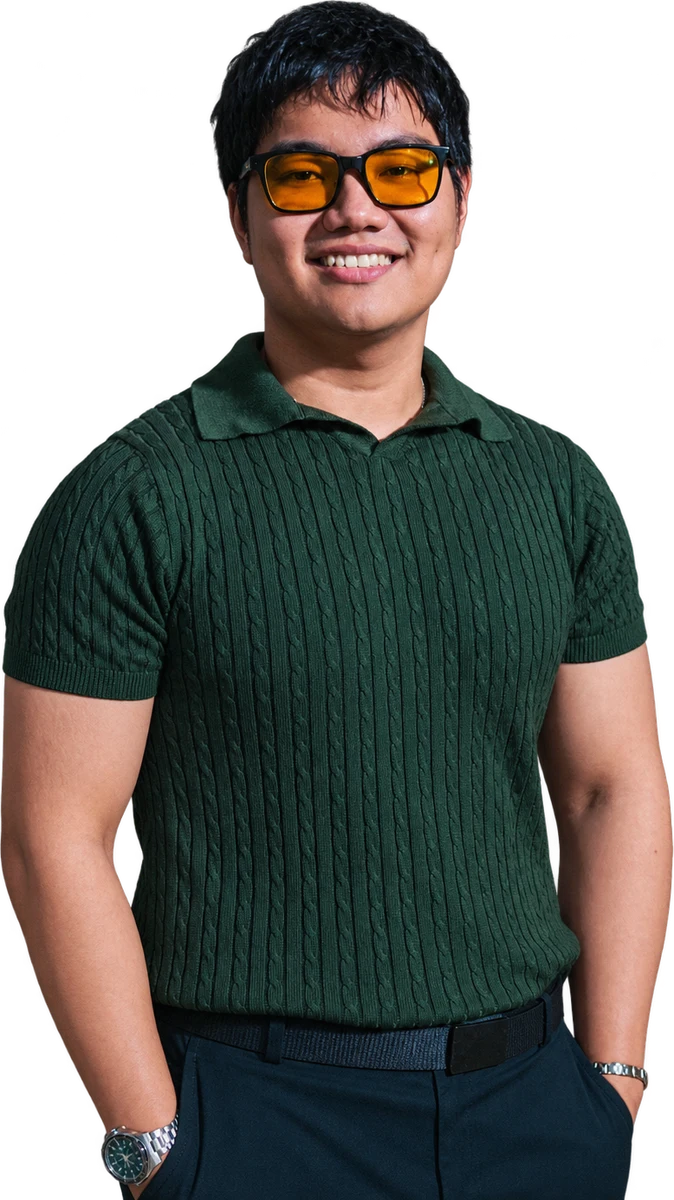
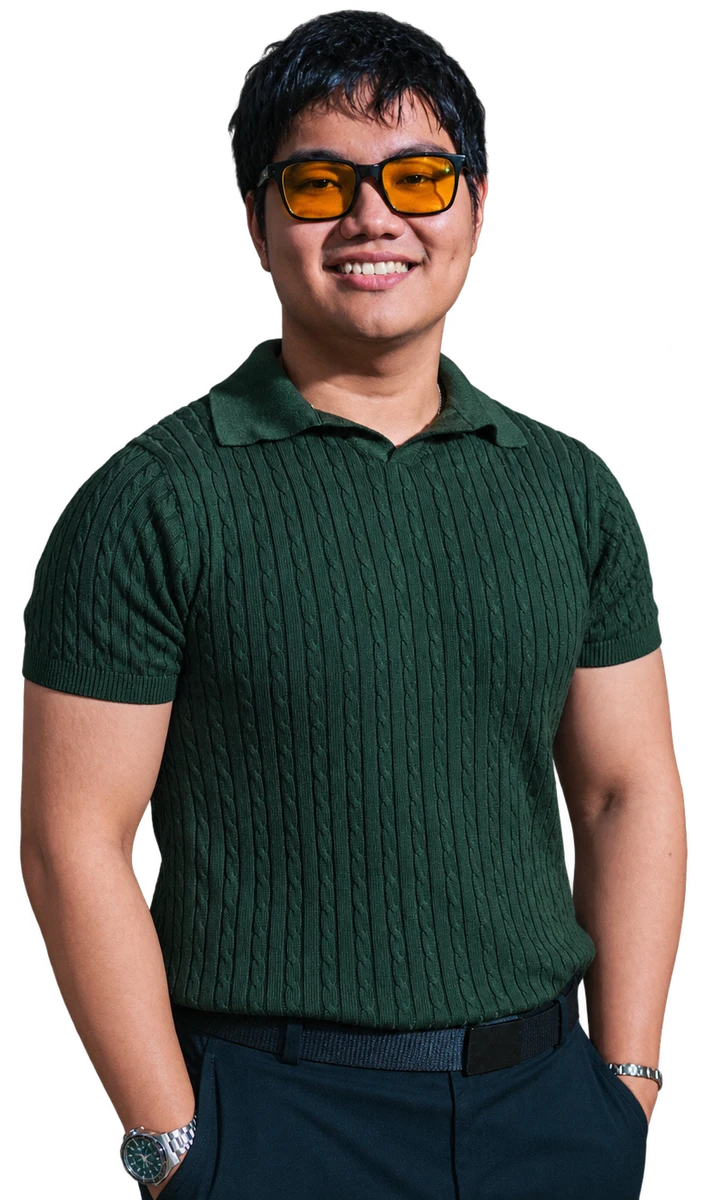
Match homepage hero to light and dark purple themes

Changed region(s): [[0.0, 0.0, 1.0, 1.0], [0.4362, 0.8633, 0.4674, 0.8942]]

diff --git a/src/app/globals.css b/src/app/globals.css
@@ -63,9 +63,30 @@ main section[id] {
 }
 
 .research-hero {
+  --hero-glow: #e7d9ff;
+  --hero-type-start: #8b5cce;
+  --hero-type-end: #d6bff7;
+  --hero-accent: #6025ae;
+  --hero-button: #692dc1;
+  --hero-button-hover: #54219f;
+  --hero-button-text: #fff;
+  --hero-topic-border: #bd9ee8;
+  --hero-topic-background: #f5eeff;
   overflow: hidden;
-  color: #fff5ed;
-  background: #100b0d;
+  color: hsl(var(--foreground));
+  background: hsl(var(--background));
+}
+
+.dark .research-hero {
+  --hero-glow: #301950;
+  --hero-type-start: #aa78f5;
+  --hero-type-end: #3a205c;
+  --hero-accent: #c7a4ff;
+  --hero-button: #be95ff;
+  --hero-button-hover: #d5baff;
+  --hero-button-text: #180f26;
+  --hero-topic-border: #72569b;
+  --hero-topic-background: #20162e;
 }
 
 .research-hero__inner {
@@ -79,7 +100,7 @@ main section[id] {
   min-height: clamp(37rem, 56vw, 49rem);
   margin-inline: auto;
   padding: 15rem clamp(2rem, 5vw, 5rem) clamp(3rem, 6vw, 5rem);
-  background: radial-gradient(ellipse at 61% 52%, #51201c 0, transparent 59%);
+  background: radial-gradient(ellipse at 61% 52%, var(--hero-glow), transparent 59%);
 }
 
 .research-hero__backdrop {
@@ -96,13 +117,12 @@ main section[id] {
 .research-hero__portrait {
   position: absolute;
   z-index: -1;
-  bottom: -2%;
+  bottom: 0;
   left: 62%;
   width: auto;
-  height: 83%;
+  height: 81%;
   max-width: none;
   transform: translateX(-50%);
-  filter: saturate(.78) drop-shadow(0 0 1.8rem #dc4b3535);
   mask-image: linear-gradient(#000 68%, transparent 99%);
 }
 
@@ -124,7 +144,7 @@ main section[id] {
 
 .research-hero h1 span,
 .research-hero__role {
-  color: #ff805b;
+  color: var(--hero-accent);
 }
 
 .research-hero__role {
@@ -136,7 +156,7 @@ main section[id] {
 .research-hero__summary {
   max-width: 28ch;
   margin-top: .65rem;
-  color: #e9d6ce;
+  color: hsl(var(--muted-foreground));
   line-height: 1.55;
 }
 
@@ -147,19 +167,19 @@ main section[id] {
   margin-top: 1.3rem;
   padding: .75rem 1rem;
   border-radius: .25rem;
-  color: #170d0d;
-  background: #ff805b;
+  color: var(--hero-button-text);
+  background: var(--hero-button);
   font-size: .875rem;
   font-weight: 700;
   transition: background-color .2s;
 }
 
 .research-hero__link:hover {
-  background: #ffa78c;
+  background: var(--hero-button-hover);
 }
 
 .research-hero__link:focus-visible {
-  outline: 2px solid #fff5ed;
+  outline: 2px solid var(--hero-accent);
   outline-offset: 4px;
 }
 
@@ -167,7 +187,7 @@ main section[id] {
   display: grid;
   justify-items: end;
   gap: .6rem;
-  color: #eed2c6;
+  color: var(--hero-accent);
   font: .72rem/1.2 ui-monospace, monospace;
   letter-spacing: .075em;
   text-transform: uppercase;
@@ -175,9 +195,9 @@ main section[id] {
 
 .research-hero__topics li {
   padding: .45rem .65rem;
-  border: 1px solid #92594c;
+  border: 1px solid var(--hero-topic-border);
   border-radius: .2rem;
-  background: #1b1012;
+  background: var(--hero-topic-background);
 }
 
 @media (max-width: 767px) {
@@ -186,7 +206,7 @@ main section[id] {
     grid-template-columns: minmax(0, 1fr);
     padding: clamp(18rem, 66vw, 30rem) 1.5rem 2rem;
     gap: 1.5rem;
-    background: radial-gradient(ellipse at 50% 31%, #51201c 0, transparent 55%);
+    background: radial-gradient(ellipse at 50% 31%, var(--hero-glow), transparent 55%);
   }
 
   .research-hero__backdrop {

diff --git a/src/components/ui/animated-tabs.tsx b/src/components/ui/animated-tabs.tsx
@@ -34,9 +34,9 @@ export function AnimatedTabs({
           onClick={() => handleTabChange(tab.id)}
           className={`
             relative rounded-[--radius] px-3 py-1.5 text-sm font-medium
-            text-foreground outline-ring transition
+            isolate outline-ring transition
             focus-visible:outline-2
-            ${activeTab === tab.id ? "" : "hover:text-foreground/60"}
+            ${activeTab === tab.id ? "text-primary-foreground" : "text-foreground hover:text-foreground/60"}
           `}
           style={{
             WebkitTapHighlightColor: "transparent",
@@ -45,7 +45,7 @@ export function AnimatedTabs({
           {activeTab === tab.id && (
             <motion.span
               layoutId="bubble"
-              className="absolute inset-0 z-10 bg-primary mix-blend-difference"
+              className="absolute inset-0 -z-10 bg-primary"
               style={{ borderRadius: "var(--radius)" }}
               transition={{ type: "spring", bounce: 0.2, duration: 0.6 }}
             />

diff --git a/src/app/page.tsx b/src/app/page.tsx
@@ -147,9 +147,8 @@ export default function Home() {
             >
               <defs>
                 <linearGradient id="hero-type" x2="0%" y2="100%">
-                  <stop stopColor="#ff754b" />
-                  <stop offset=".52" stopColor="#b6341e" />
-                  <stop offset="1" stopColor="#2e1112" />
+                  <stop stopColor="var(--hero-type-start)" />
+                  <stop offset="1" stopColor="var(--hero-type-end)" />
                 </linearGradient>
               </defs>
               <text x="2" y="149" textLength="1156" lengthAdjust="spacingAndGlyphs">
@@ -159,7 +158,7 @@ export default function Home() {
             <Image
               src="/images/profile-cutout.webp"
               alt="Portrait of Hansen Idden"
-              width={674}
+              width={708}
               height={1200}
               className="research-hero__portrait"
               priority
